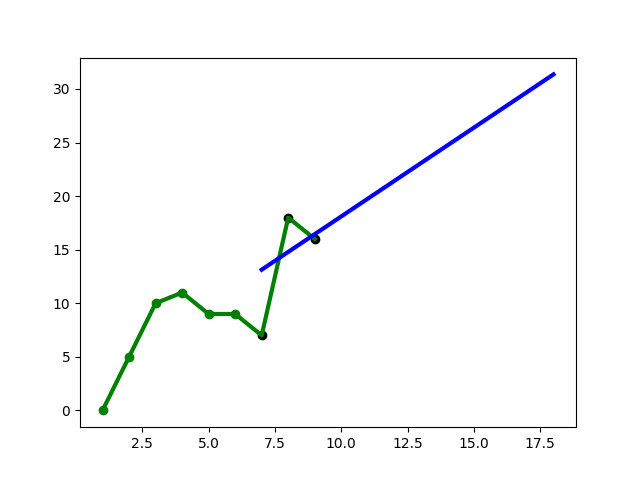
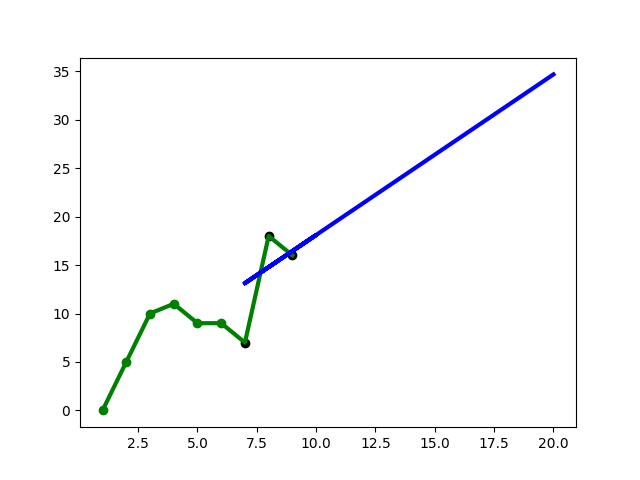
update plot show

diff --git a/Python/LinearReg.py b/Python/LinearReg.py
@@ -92,6 +92,7 @@ if __name__ == '__main__':
     url = 'https://raw.githubusercontent.com/ADelau/proj0016-epidemic-data/main/data.csv'
     data = load_from_url(url)
     data_array = np.array(data)
+    forcast_number_day = 14
     X = np.delete(data_array, [2,3,4,5], axis=1)
 
     # Load the current casses dataset
@@ -131,14 +132,16 @@ if __name__ == '__main__':
 
 
     current_casses_X_pred = (np.append(current_casses_X_test,[10])).reshape((4, 1))
-
-    for i in range(11,19):
+    print(len(current_casses_X_train))
+    print(len(current_casses_X_pred)+forcast_number_day)
+    for i in range(len(current_casses_X_train)+1,len(current_casses_X_train)+forcast_number_day+1):
         current_casses_X_pred = (np.append(current_casses_X_pred,[i])).reshape(-1,1)
 
 
     current_casses_y_pred = regr.predict(current_casses_X_pred)
     # The coefficient of determination: 1 is perfect prediction
     array_length = len(current_casses_y_pred)
+    print(len(current_casses_y_pred))
     print("NEXT WEEK'S FORECAST FOR THE NUMBER OF CASES",current_casses_y_pred[array_length-1])
 
     # Plot outputs
@@ -146,6 +149,7 @@ if __name__ == '__main__':
     plt.scatter(current_casses_X_train, current_casses_y_train,  color='green')
     plt.plot(current_casses_X, current_casses_y, color='green', linewidth=3)
     plt.scatter(current_casses_X_test, current_casses_y_test,  color='black')
+
     plt.plot(current_casses_X_pred, current_casses_y_pred, color='blue', linewidth=3)
 
     # plt.xticks(())
